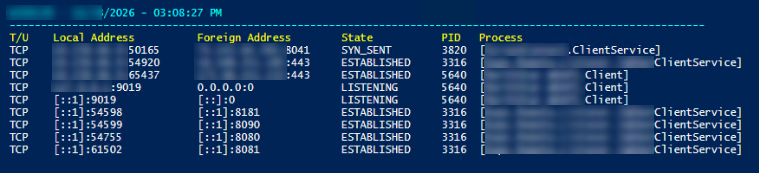
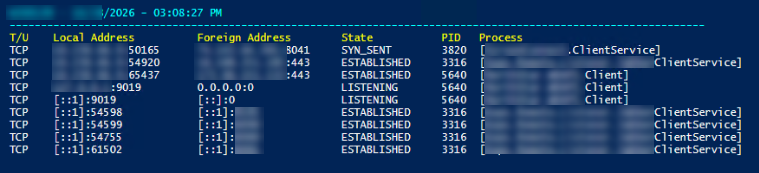
new script query-port-&-process-monitor

Changed region(s): [[0.303, 0.6069, 0.3636, 0.896]]

diff --git a/bin-Query/Query-Port-&-Process-MONITOR.md b/bin-Query/Query-Port-&-Process-MONITOR.md
@@ -1,0 +1,30 @@
+# Port & Process Monitor (STRING)
+
+Actively query network processes based on string entry.
+
+
+! [Sample](vector-img/port_process_monitoring_active.png)
+
+
+<p align="left">
+  <img src="vector-img/port_process_monitoring_active.png">
+  <br/>
+</p>
+
+
+## Script Tasks
+✅ Monitors overall CPU usage over a short period and calculates the average utilization.<br>
+✅ Displays the server name and average CPU utilization percentage.<br>
+✅ Compares the average CPU utilization against a 90% threshold.<br>
+✅ Indicates whether CPU utilization is within normal limits or requires attention.<br>
+✅ Identifies the top processes consuming the most CPU resources.<br>
+✅ Filters the results to show only processes exceeding 8% CPU utilization.<br>
+✅ Displays the process name, CPU utilization, process owner, and executable path.<br>
+
+
+## Script Access
+🔴 <ins>Administrator</ins> Terminal Required</span> 
+
+## Code Block
+
+```powershell
